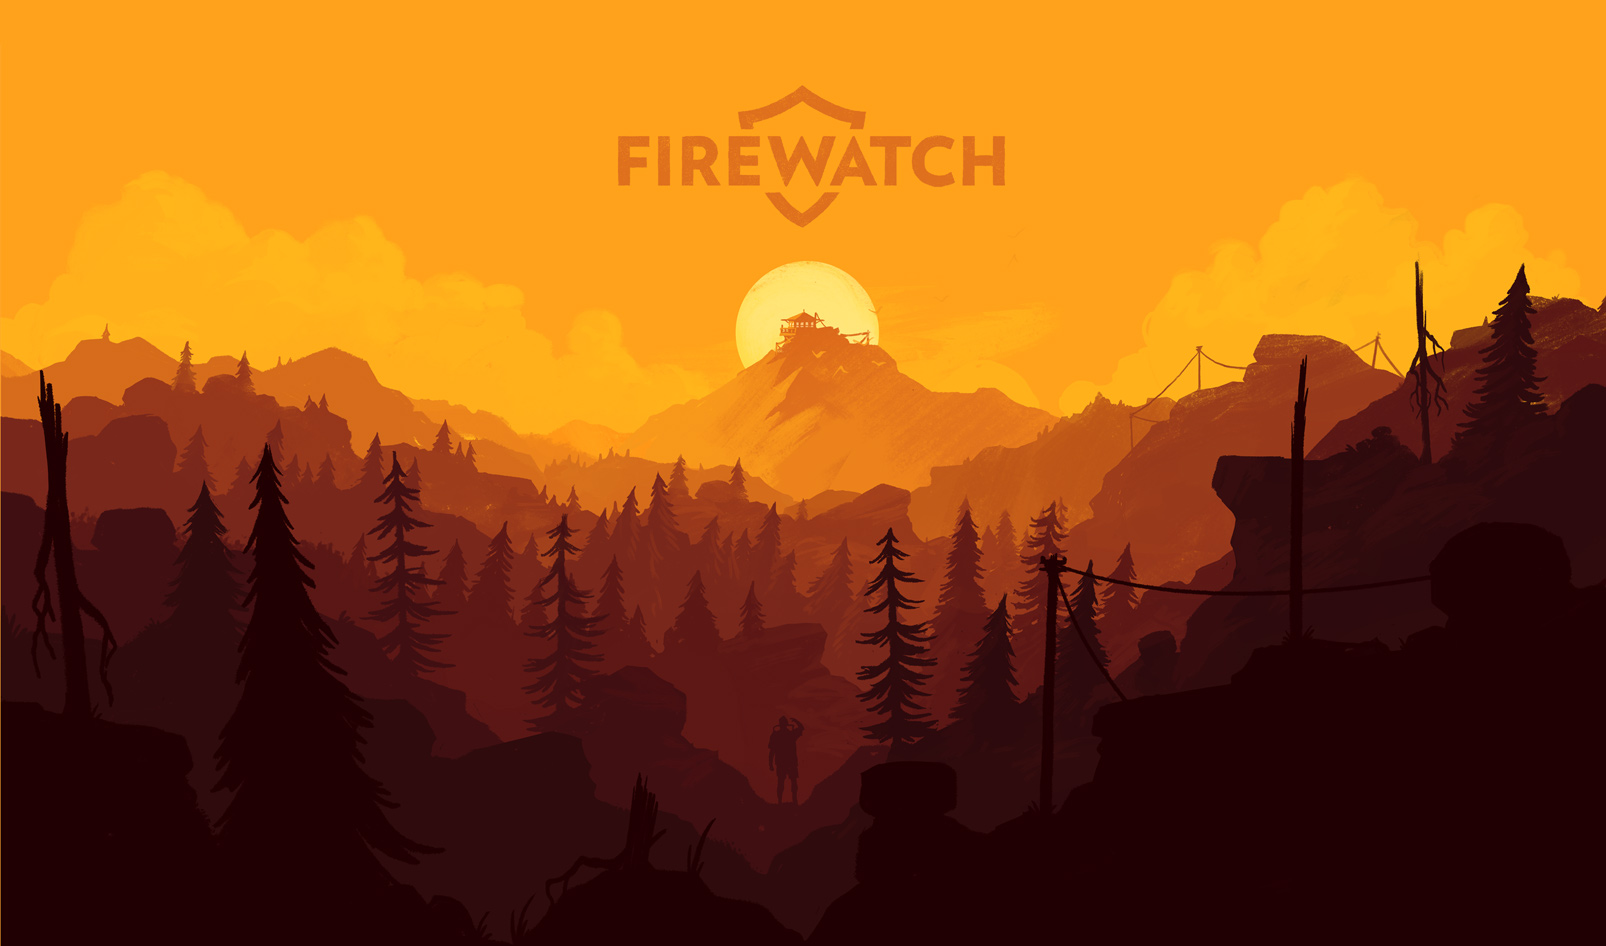
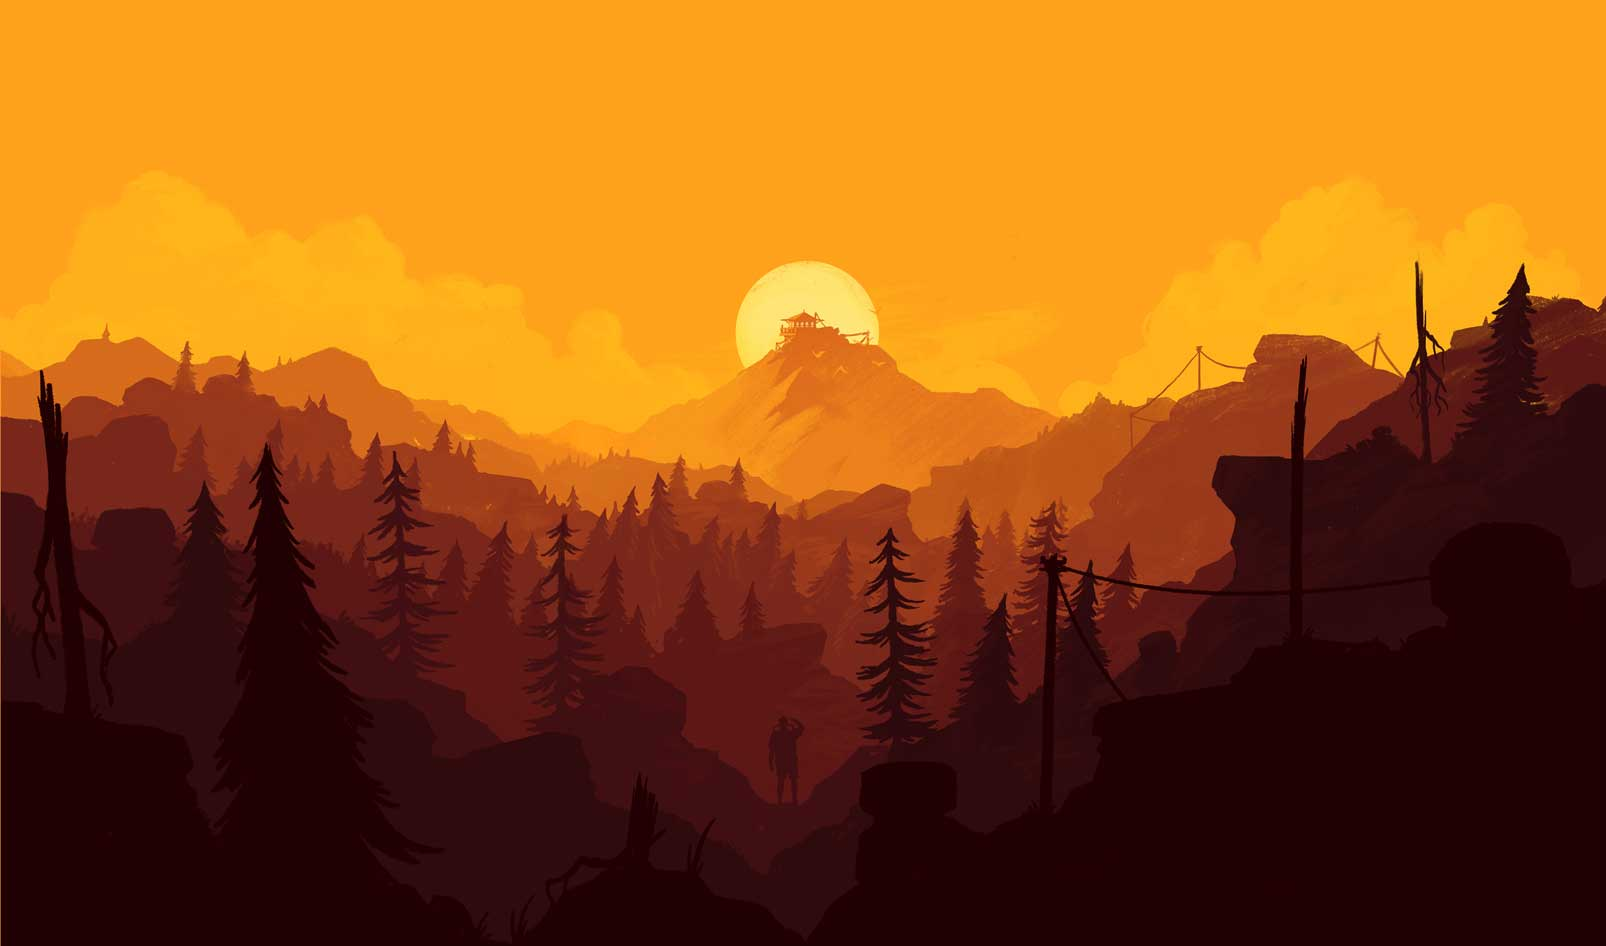
new changes to the site

Changed region(s): [[0.3736, 0.092, 0.6227, 0.2452], [0.8406, 0.3372, 0.9029, 0.3985]]

diff --git a/index.html b/index.html
@@ -4,30 +4,8 @@
 	<head>
 		<meta name="viewport" content="width=device-width, initial-scale=1"> 
 		<link rel="shortcut icon" href="favicon.ico.html">
-		<title>Campo Santo - Firewatch</title>
+		<title>AIESEC - Recruitments</title>
 		<meta charset="utf-8">
-
-		<!-- Twitter Card data -->
-		<meta name="twitter:card" content="summary_large_image">
-		<meta name="twitter:site" content="@camposanto">
-		<meta name="twitter:site:id" content="1594071944">
-		<meta name="twitter:title" content="Firewatch: Out now for Windows, PlayStation 4, Mac, and Linux">
-		<meta name="twitter:description" content="Firewatch is a first-person single-player mystery set in the Wyoming wilderness, where your only emotional lifeline is the person on the other end of a handheld radio.">
-		<meta name="twitter:creator" content="@camposanto">
-		<meta name="twitter:creator:id" content="1594071944">
-
-		<!-- Twitter summary card with large image must be at least 280x150px -->
-		<meta name="twitter:image:src" content="http://www.firewatchgame.com/images/badge.png">
-		
-		<link rel="apple-touch-icon" href="images/appicon.png" />
-
-		<!-- Open Graph data -->
-		<meta property="og:title" content="Firewatch: Out now for Windows, PlayStation 4, Mac, and Linux" />
-		<meta property="og:type" content="website" />
-		<meta property="og:url" content="http://www.firewatchgame.com/" />
-		<meta property="og:image" content="http://www.firewatchgame.com/images/badge.png" />
-		<meta property="og:description" content="Firewatch is a first-person single-player mystery set in the Wyoming wilderness, where your only emotional lifeline is the person on the other end of a handheld radio." />
-		<meta property="og:site_name" content="Firewatch" />
 
 		<link rel="stylesheet" href="css/firewatchlaunch-reload=0.css" type="text/css" media="screen" charset="utf-8">
 		<link rel="stylesheet" href="http://www.camposanto.com/css/camponav.css" type="text/css" media="screen" charset="utf-8">
@@ -37,22 +15,10 @@
 		
 		<!-- H&FJ CLOUD.TYPOGRAPHY ENABLED for VERLAG -->
 		<link rel="stylesheet" type="text/css" href="http://cloud.typography.com/7652892/657204/css/fonts.css" />
+		<link rel="stylesheet" type="text/css" href="css/fontstyle.css">
 
 		<script type="text/javascript" src="http://use.typekit.net/nsv4yzv.js"></script>
 		<script type="text/javascript">try{Typekit.load();}catch(e){}</script>
-
-
-		<!-- GoSquared Analytics -->
-
-		<script type="text/javascript">
-		  !function(g,s,q,r,d){r=g[r]=g[r]||function(){(r.q=r.q||[]).push(
-		  arguments)};d=s.createElement(q);q=s.getElementsByTagName(q)[0];
-		  d.src='//d1l6p2sc9645hc.cloudfront.net/tracker.js';q.parentNode.
-		  insertBefore(d,q)}(window,document,'script','_gs');
-		  
-		  _gs('GSN-517995-G');
-		</script>
-
 
 		
 						
@@ -60,12 +26,13 @@
 
 	<body class="firewatch launch">
 				<ul class="navbar-top">
-			<li id="nav-company"><a href="http://www.camposanto.com"><strong>Campo Santo</strong></a></li>
+			<li id="nav-company"><a href="http://www.aiesec.in/"><strong>AIESEC</strong></a></li>
 			<!-- THESE MUST GO IN REVERSE ORDER BECAUSE CSS IS DUMB SOMETIMES -->
-			<li id="nav-review"><a href="https://quarterly.camposanto.com/"><strong><span class="collapse">Quarterly Review</span><span class="reveal">Newsletter</span></strong></a></li>
-			<li id="nav-store"><a href="http://store.camposanto.com"><strong><span class="collapse">Campo </span>Store</strong></a></li>
-			<li id="nav-blog"><a href="http://blog.camposanto.com"><strong><span class="collapse">Development </span>Blog</strong></a></li>
-			<li id="nav-game"><a href="index.html"><span class="collapse">Our Game: </span><strong>Firewatch</strong></a></li>
+			<li id="nav-review"><a href="http://blogs.aiesecdelhiuniversity.in/"><strong><span class="collapse">BLOG</span><span class="reveal"></span></strong></a></li>
+			<li id="nav-blog"><a href="https://twitter.com/AIESEC_DU"><strong><span class="collapse">Twitter </span></strong></a></li>
+			<li id="nav-store"><a href="https://www.facebook.com/aiesecdelhiuniversity/"><strong><span class="collapse">Facebook </span></strong></a></li>
+			
+			<li id="nav-game"><a href="index.html"><span class="collapse">Learn More: </span><strong></strong></a></li>
 		</ul>		<script type="text/javascript">document.getElementById("nav-game").className += " current";</script>
 
 		<div id="page">
@@ -90,117 +57,68 @@
 			<div id="maincontain"><div id="main">
 
 				<div class="section pressquote big first">
-					<h2>"A controlled burn of brilliance."</h2>
-					<h3>IGN</h3>
+					<h2>"The journey of a thousand miles begins with one step."</h2>
+					<h3>Lao Tzu</h3>
 				</div>
 
 				<div class="section buy">
 					
-					<h2 class="banner"><span>Available now for $19.99</span></h2>
-					<ul class="stores smalllinks">
-						<li class="pc">
-							<a class="steam" href="http://store.steampowered.com/app/383870">
-								<h3>Steam</h3>
-							</a>
-							<a class="gog" href="https://www.gog.com/game/firewatch">
-								<h3>GOG</h3>
-							</a>
-							<h4 class="banner"><span>Windows Mac Linux</span></h4>
-						</li>
-						<li class="ps4">
-							<a class="psn" href="https://store.playstation.com/#!/search/q=firewatch">
-								<h3>PlayStation Store</h3>
-							</a>
-							<h4 class="banner"><span>PlayStation 4</span></h4>
-						</li>
-					</ul>
+					<h6 class="banner"><span>What is AIESEC?</span></h6>
 				</div>
 
 				<div class="section feature videoparent">
 					<div class="videocontain">
-						<iframe src="https://www.youtube.com/embed/cXWlgP5hZzc" frameborder="0" allowfullscreen></iframe>
+						<iframe src="https://www.youtube.com/v/JtfpuAmgSy8" frameborder="0" allowfullscreen></iframe>
 					</div>
 				</div>
 
 				<div class="section description">
-					<h5>Firewatch is a mystery set in the Wyoming wilderness, where your only emotional lifeline is the person on the other end of a handheld radio.</h5>
-					<div class="columntext">
-						<p class="left">The year is 1989.
-						<br /><br />
-						You are a man named Henry who has retreated from your messy life to work as a fire lookout in the Wyoming wilderness. Perched atop a mountain, it's your job to find smoke and keep the wilderness safe.
-						<br /><br />
-						An especially hot, dry summer has everyone on edge. Your supervisor, a woman named Delilah, is available to you </p><p>at all times over a small, handheld radio—and is your only contact with the world you've left behind.
-						<br /><br />
-						But when something strange draws you out of your lookout tower and into the world below, you'll explore a wild and unknown environment, facing questions and making interpersonal choices that can build or destroy the only meaningful relationship you have.
-						</p>
-					</div>
-				</div>
+					<h5>AIESEC is a global platform for young people to explore and develop their leadership potential. We are a non-political, independent, not-for-profit organisation run by students and recent graduates of institutions of higher education. Its members are interested in world issues, leadership and management. AIESEC does not discriminate on the basis of ethnicity, gender, sexual orientation, religion or national / social origin.
+</h5>
+					<div style="font-family: "Lucida Sans Unicode";
+">
+						<p class="left"><span style="font-weight: bold;"> <u>WHO WE ARE: AIESEC IN DELHI UNIVERSITY</u></br></span>
+WHO we are and WHAT we do is the cornerstone of our working. We, at AIESECC in Delhi University are driven by our motto i.e. peace and fulfillment of mankind’s potential. We are a body of young and energetic enthusiasts from different backgrounds who work in unison with a common goal. We have different programmes to offer viz., Global Citizen Programme (whereby we send undergraduates on an international exchange to a country they desire), Global Talent Programme (whereby we send the graduates on a paid internship abroad) and many more. We do it all by ourselves and that is the part that sets us apart from other youth organizations. Our organization works on set rules and regulations with the Local Chapter President being the highest designation that presides over the local chapter and acts as a channel with the other Local Chapters existing in India and globally.
+Our work as defined is dynamic, professional and is rooted to bring about social and cultural change.
 
-				<div class="section internallinks">
-					<ul class="links smalllinks dim">
-						<li class="link merchandise"><a href="http://store.camposanto.com">
-							<h3>Campo Santo Store</h3>
-							<h4 class="banner"><span>Merchandise</span></h4>
-						</a></li>
-					</ul>
-					<ul class="links smalllinks dim">
-						<li class="link media"><a href="media/index.html">
-							<h4 class="banner"><span>Screens &amp; Trailers</span></h4>
-						</a></li>
-						<li class="link faq"><a href="about/index.html">
-							<h4 class="banner"><span>Firewatch FAQ</span></h4>
-						</a></li>
-					</ul>
+						<br><br></p>
+					</div>
+										<div style="font-family: "Lucida Sans Unicode";
+					">
+											<p class="left"><span style="font-weight: bold;"> <u>WHY JOIN US?</u></br></span>
+											- The professional interning environment that you get with us will give you a head start in your career.<br>
+- Along with professionalism, you get to work out of your comfort zone. You challenge yourself to perform best. The introverts, you will be a total different person in just a week for sure.<br>
+- We are not an organization built on hierarchy and structure but we are family and in this way as you struggle through your years in college we give you a break from that monotony and make you explore new dimensions. We understand you and are there for you. <br>
+- Work and culture go hand in hand, not only performance of you as a member is important but your involvement in AIESEC DU family is something that we equally value and cater to. You’ll never feel missed out!<br>
+- Your 9 months stay with us will be a journey where rest assured you will grow tremendously. You will not only get an international recognized certificate from AIESEC but also the enigmatic spirit that you will take on will help you climb greater heights. 
+
+											<br><br></p>
+										</div>
 				</div>
 
 				<div class="section screenshots">
 					<ul class="thumbnails">
 						<li>
-							<a href="screenshots/firewatch-e3-2.jpg"><img alt="Firewatch screenshot" src="screenshots/thumbs/firewatch_01.jpg" /></a>
+							<a href="screenshots/i1.jpg"><img alt="img" src="screenshots/thumbs/i1.jpg" /></a>
 						</li
 						><li>
-							<a href="screenshots/firewatch_150305_06.png"><img alt="Firewatch screenshot" src="screenshots/thumbs/firewatch_02.jpg" /></a>
+							<a href="screenshots/i2.jpg"><img alt="img" src="screenshots/thumbs/i2.jpg" /></a>
 						</li
 						><li>
-							<a href="screenshots/firewatch-2.jpg"><img alt="Firewatch screenshot" src="screenshots/thumbs/firewatch_03.jpg" /></a>
+							<a href="screenshots/i3.jpg"><img alt="img" src="screenshots/thumbs/i3.jpg" /></a>
 						</li
 						><li>
-							<a href="screenshots/firewatch-e3-5.jpg"><img alt="Firewatch screenshot" src="screenshots/thumbs/firewatch_04.jpg" /></a>
+							<a href="screenshots/i4.jpg"><img alt="img" src="screenshots/thumbs/i4.jpg" /></a>
 						</li>
 					</ul>
 				</div>
 
 				<div class="section pressquote big">
-					<h2>"As visually striking <br />as its unique premise."</h2>
-					<h3>Entertainment Weekly</h3>
+					<h2>"If a window of opportunity appears, don't pull down the shade."</h2>
+					<h3>Tom Peters</h3>
 				</div>
 
-				<div class="section support">
-					<ul class="supportlinks smalllinks dim">
-						<li class="link techsupport"><a href="https://camposanto.zendesk.com/hc/en-us">
-							<h4 class="banner"><span>Tech Support</span></h4>
-						</a></li>
-						<li class="link streaming"><a href="about/index.html#streaming">
-							<h4 class="banner"><span>Streaming &amp; Let's Plays</span></h4>
-						</a></li>
-					</ul>
-				</div>
-
-				<div class="section copyright">
-					<p>&copy;<span id="year">2016</span> Campo Santo, in cooperation with Panic.</p>
-					<p>Firewatch is a trademark of Campo Santo.</p>
-				</div>
-
-				<div class="section companylinks">
-					<ul class="companies">
-						<li class="campo"><a href="http://www.camposanto.com/">
-							<h1>Campo Santo</h1>
-						</a></li>
-						<li class="panic"><a href="http://www.panic.com">
-							<h1>Panic</h1>
-						</a></li>
-					</ul>
-				</div>
+			
 
 			</div></div>
 

diff --git a/css/firewatchlaunch-reload=0.css b/css/firewatchlaunch-reload=0.css
@@ -3,7 +3,8 @@ a,abbr,acronym,address,applet,article,aside,audio,b,big,blockquote,body,canvas,c
 a, a:link, a:visited { color: inherit; text-decoration: inherit; }
 
 /* GLOBAL */
-
+@import url(https://fonts.googleapis.com/css?family=Allerta);
+@import url(https://fonts.googleapis.com/css?family=PT+Sans);
 .section.internallinks, .section.internallinks * {
 	vertical-align: baseline;
 }
@@ -275,10 +276,15 @@ h1#firewatchlogo {
 	margin-bottom: 30px;
 }
 
+
+.parahead{
+	font-weight: bold;.
+}
 .columntext p {
 	margin-bottom: 1.6em;
 	width: 325px;
 	display: inline-block;
+	font-family: 'PT Sans', sans-serif;
 }
 	.columntext p.left {
 		margin-right: 50px;

diff --git a/css/fontstyle.css b/css/fontstyle.css
@@ -1,0 +1,26 @@
+@import 'https://fonts.googleapis.com/css?family=Rubik';
+@import url(https://fonts.googleapis.com/css?family=Rubik+One);
+@import 'https://fonts.googleapis.com/css?family=Alegreya+Sans:500|Antic';
+@import 'https://fonts.googleapis.com/css?family=Lato:100,700';
+
+p{
+	font-family: 'Antic', sans-serif;
+}
+
+
+
+h5{
+	font-family: 'Alegreya Sans', sans-serif;
+}
+
+
+h2{
+	font-family: 'Lato', sans-serif;
+	font-weight: 100;
+}
+
+h6{
+	font-family: 'Lato', sans-serif;
+	font-weight: 700;
+	font-size: 45px;
+}
